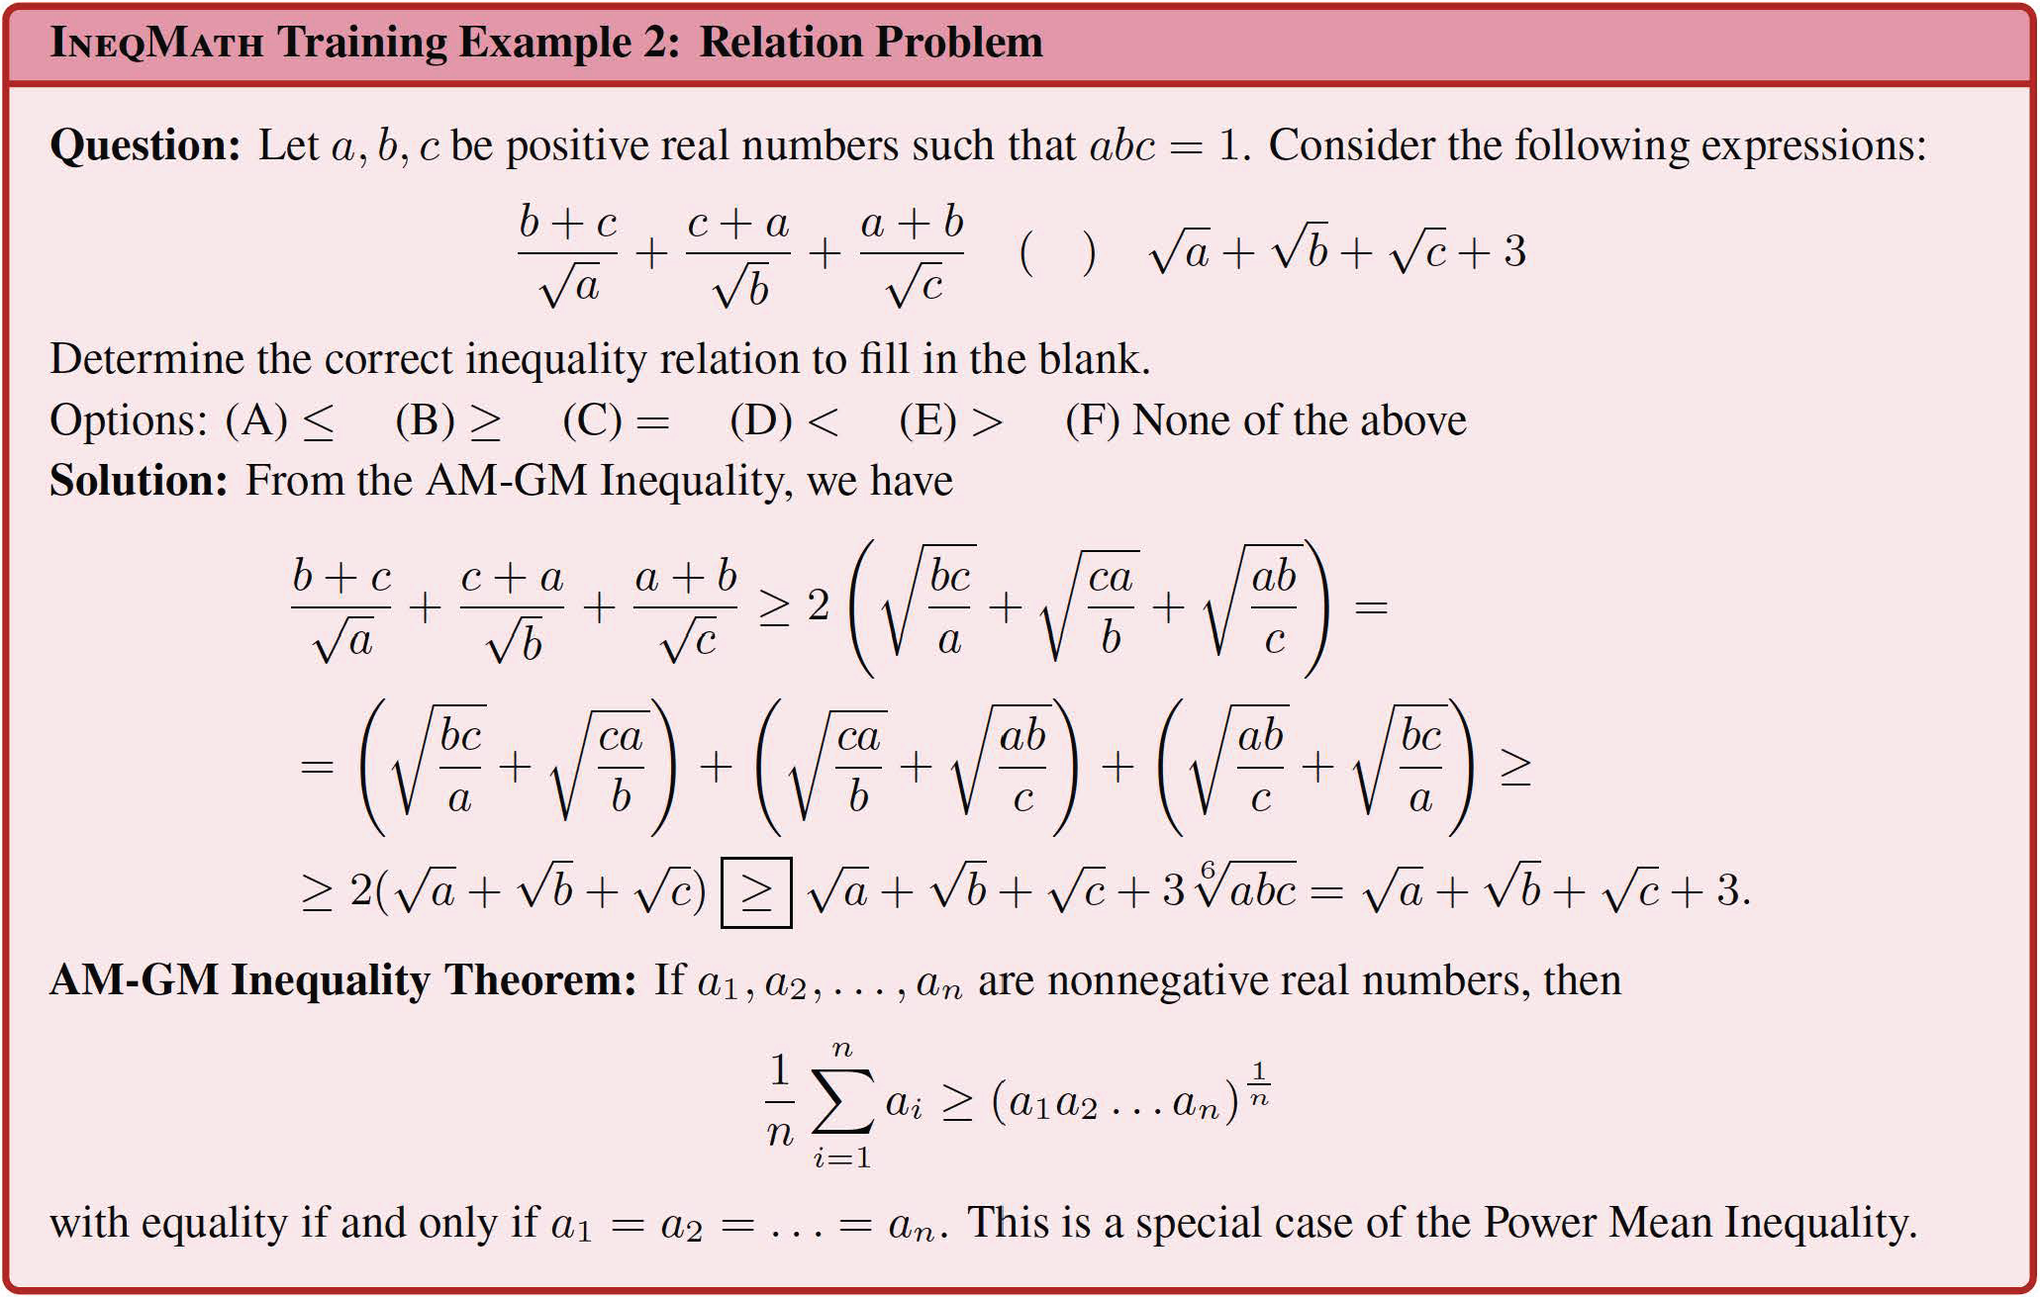
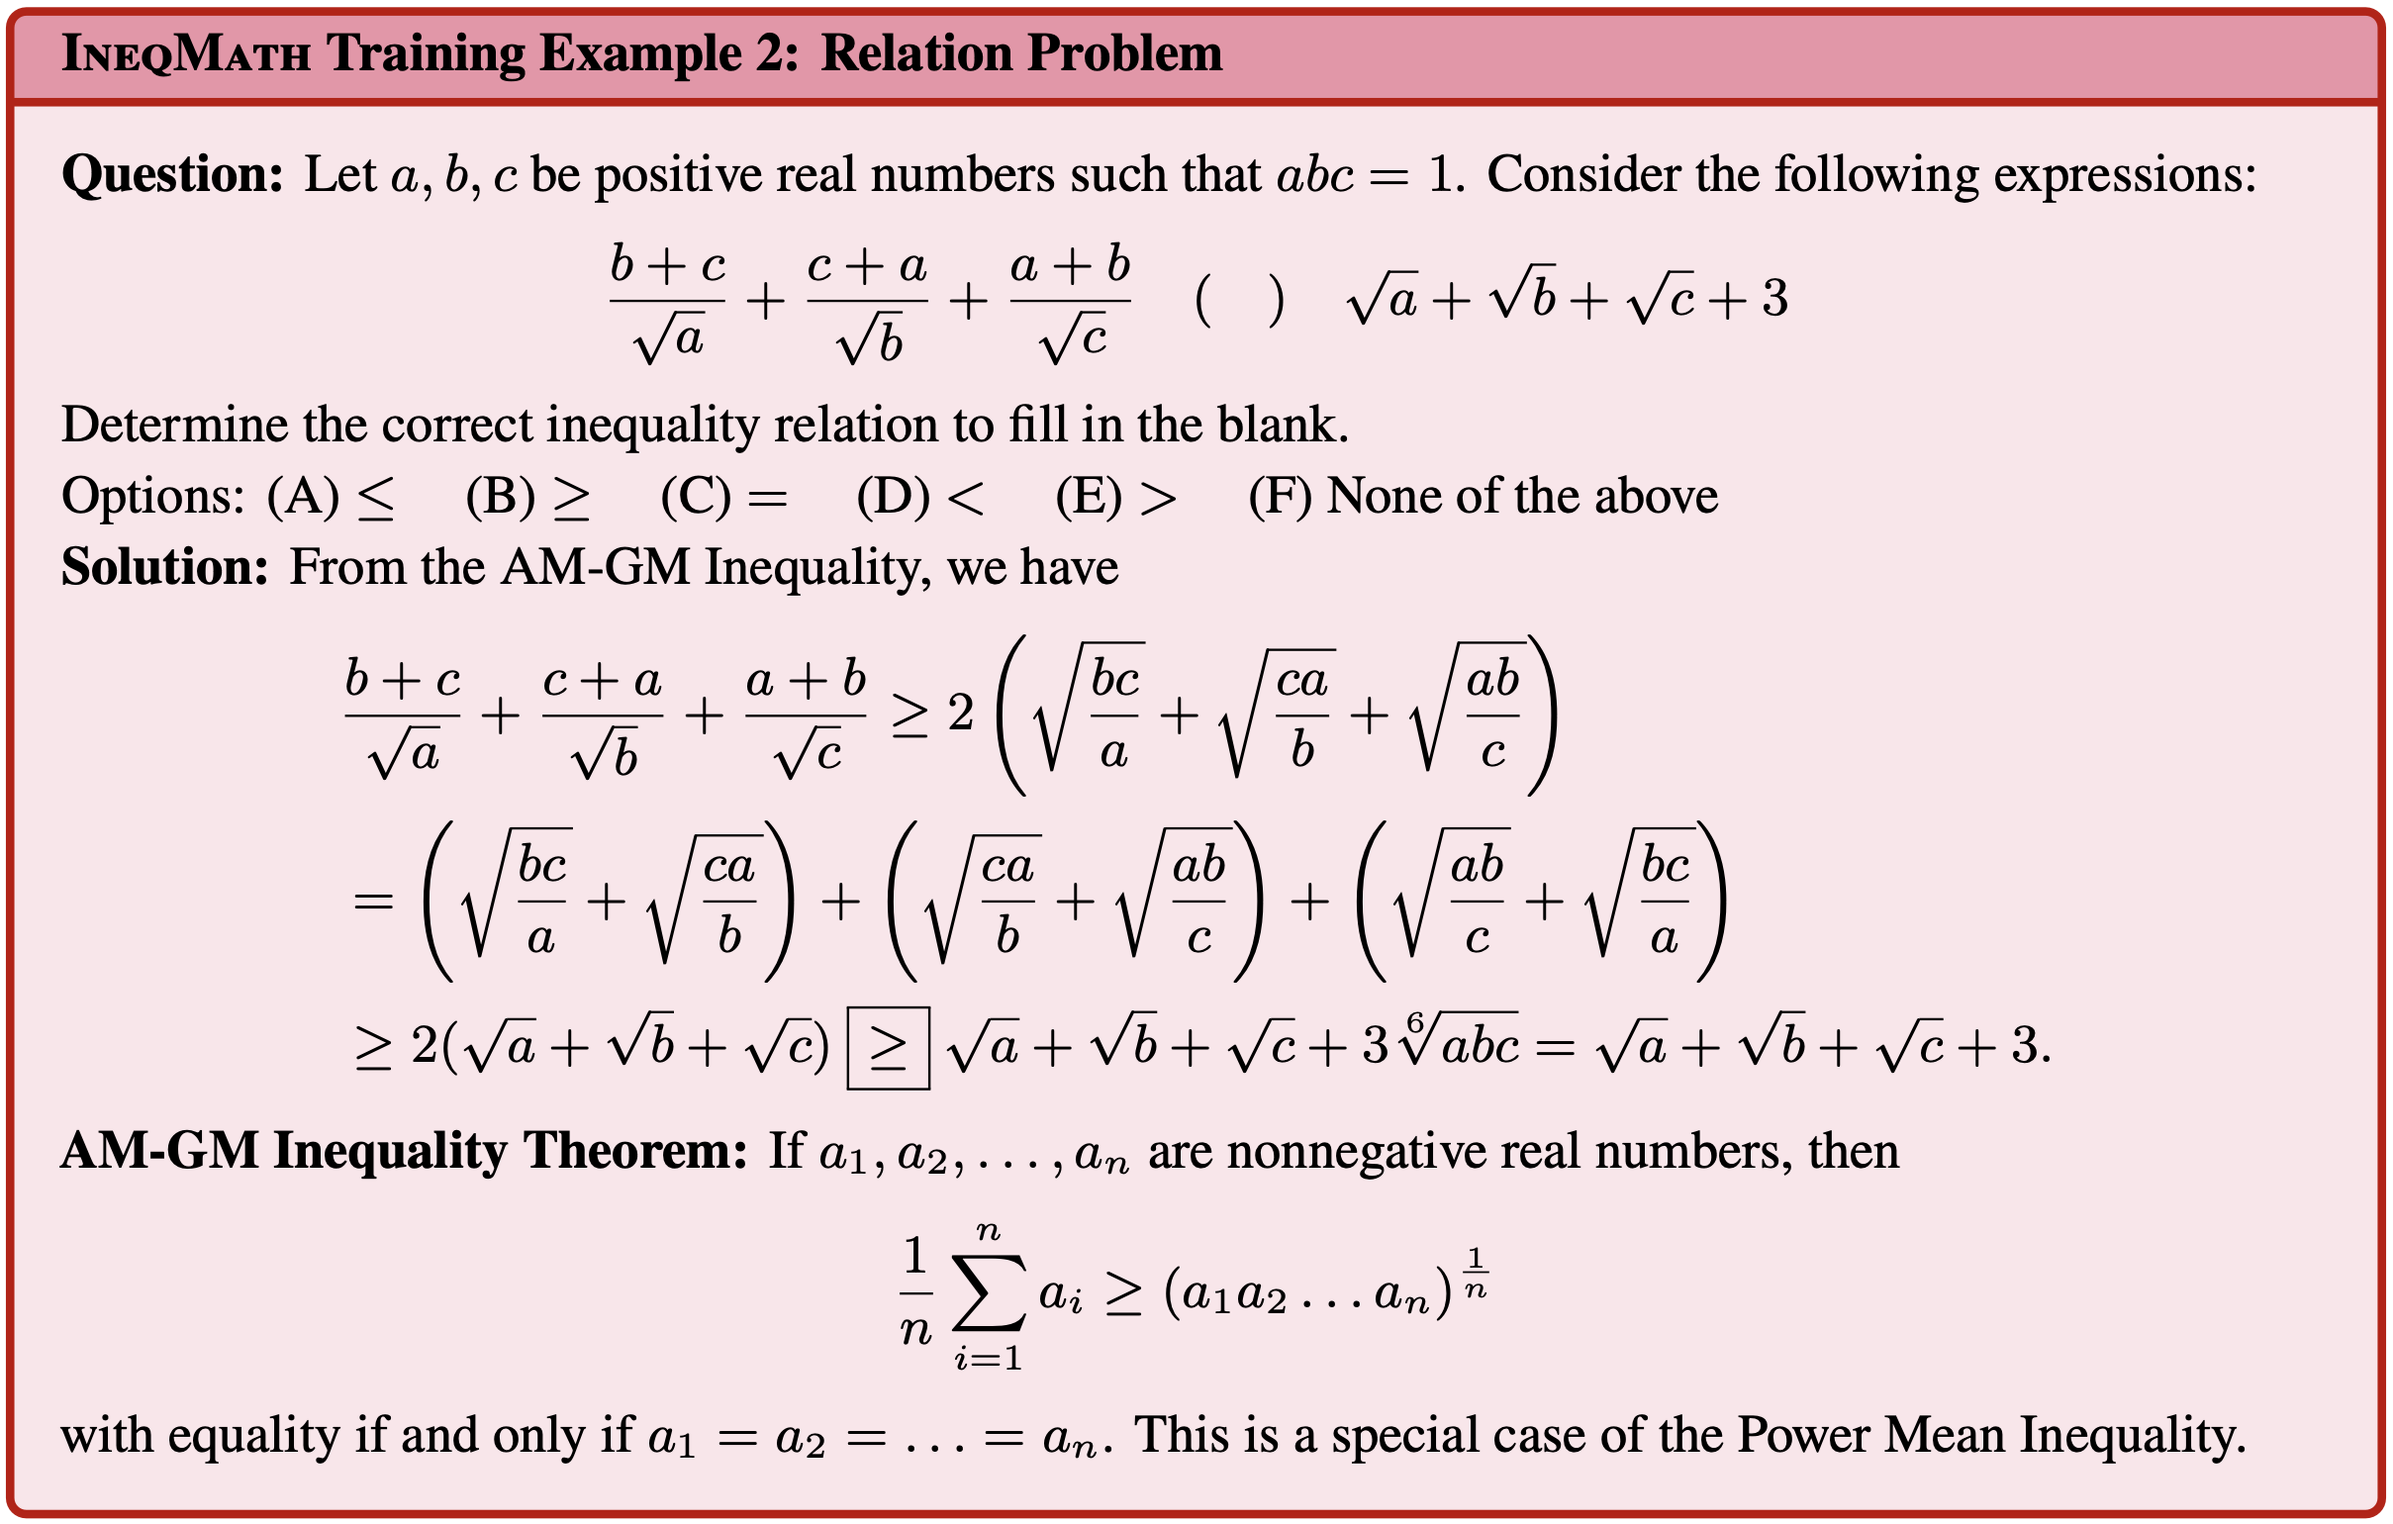
rearrange assets

diff --git a/README.md b/README.md
@@ -92,8 +92,8 @@ Testing examples of <b><span style="color:#103756;">Ineq</span><span style="colo
 
 
 <div align="center">
-    <img src="assets/test_bound_example.png" width="650" alt="Test Bound Example">
-    <img src="assets/test_relation_example.png" width="650" alt="Test Relation Example">
+    <img src="assets/examples/test_bound_example.png" width="650" alt="Test Bound Example">
+    <img src="assets/examples/test_relation_example.png" width="650" alt="Test Relation Example">
 </div>
 
 <a id="leaderboard"></a>
@@ -397,14 +397,14 @@ The <b><span style="color:#103756;">Ineq</span><span style="color:#D03C36;">Math
 
 <div align="center">
 
-  <img src="./assets/theorem_category_pie_chart.png" alt="IneqMath Logo" width="520"/>
+  <img src="./assets/dataset/theorem_category_pie_chart.png" alt="IneqMath Logo" width="520"/>
 
 </div>
 
 The table below compares datasets for inequalities and theorem proving. <b><span style="color:#103756;">Ineq</span><span style="color:#D03C36;">Math</span></b> provides expert-annotated training and test/dev sets, featuring high-quality named theorems and stepwise solutions for model development. Unlike prior datasets that use synthesis or autoformalization, <b><span style="color:#103756;">Ineq</span><span style="color:#D03C36;">Math</span></b> presents problems in informal language across both multiple-choice (MC) and open-ended (Open) formats, and employs LLM-as-judge for evaluation.
 
 <div align="center">
-<img src="assets/dataset_comparison.png" width="90%">
+<img src="assets/dataset/dataset_comparison.png" width="90%">
 </div>
 
 <a id="fine-grained-informal-judges"></a>
@@ -414,8 +414,8 @@ Traditional evaluation methods fall short in this setting: expert annotation is 
 
 <div align="center">
 
-  <img src="./assets/confusion_matrix_judge_metrix.png" alt="judge_confusion_matrix" width="800"/>
-  <img src="./assets/table_judge_metrics.png" alt="table_judge_matrix" width="650"/>
+  <img src="./assets/results/confusion_matrix_judge_metrix.png" alt="judge_confusion_matrix" width="800"/>
+  <img src="./assets/results/table_judge_metrics.png" alt="table_judge_matrix" width="650"/>
 
 </div>
 
@@ -427,7 +427,7 @@ This table shows the **Final-answer accuracy** versus **overall accuracy** for l
 
 <div align="center">
 
-  <img src="./assets/key_results_figure.png" alt="judge_confusion_matrix" width="800"/>
+  <img src="./assets/results/key_results_figure.png" alt="judge_confusion_matrix" width="800"/>
 
 </div>
 
@@ -437,14 +437,14 @@ The following two figures show how <em>final-answer accuracy</em> (which evaluat
 The figure below shows how final-answer accuracy (which evaluates only the correctness of the final predicted answer) scales with model size for LLMs. As model size increases, we observe a steady improvement in answer accuracy, reflecting an empirical scaling law that larger models are better at inferring correct bounds and inequality relationships.
 <div align="center">
 
-  <img src="./assets/scaling_law_model_size_answer_acc_log_all.png" alt="scaling_curve_answer_acc" width="700"/>
+  <img src="./assets/results/scaling_law_model_size_answer_acc_log_all.png" alt="scaling_curve_answer_acc" width="700"/>
 
 </div>
 
  However, the trend for answer accuracy does not hold well when considering overall accuracy—which requires both a correct answer and valid intermediate reasoning steps—as shown in the figure below. In this case, the scaling curve flattens, indicating that increased model size alone is insufficient to eliminate step-by-step reasoning errors.
 
 <div align="center">
-  <img src="./assets/scaling_law_model_size_overall_acc_log_all.png" alt="scaling_curve_overall_acc" width="700"/>
+  <img src="./assets/results/scaling_law_model_size_overall_acc_log_all.png" alt="scaling_curve_overall_acc" width="700"/>
 
 </div>
 
@@ -454,7 +454,7 @@ The figure below shows how final-answer accuracy (which evaluates only the corre
 As shown in the figure, providing one or two such theorems decreases overall accuracy for weaker models (e.g., Grok 3 mini, o3-mini, o4-mini), likely due to misapplication or distraction by potentially irrelevant information. Conversely, stronger models like Gemini 2.5 Pro benefit from these hints, suggesting advanced reasoning is crucial to effectively use such guidance. These results underscore the potential of theorem-guided reasoning but also highlight the critical need for more sophisticated theorem retrieval mechanisms (e.g., RAG) to reliably enhance LLM performance in inequality proving.
 
 <div align="center">
-<img src="assets/theorem_as_hints.png" width="65%">
+<img src="assets/results/theorem_as_hints.png" width="65%">
 </div>
 
 
@@ -462,7 +462,7 @@ As shown in the figure, providing one or two such theorems decreases overall acc
 As the figure shows, self-critique consistently improves performance—e.g., Gemini 2.5 Pro's overall accuracy rises from 43% to 48%. This upward trend underscores self-critique as a promising, supervision-free method to enhance logical rigor and solution quality of LLMs in inequality reasoning.
 
 <div align="center">
-<img src="assets/self_critic.png" width="65%">
+<img src="assets/results/self_critic.png" width="65%">
 </div>
 
 <a id="license"></a>
